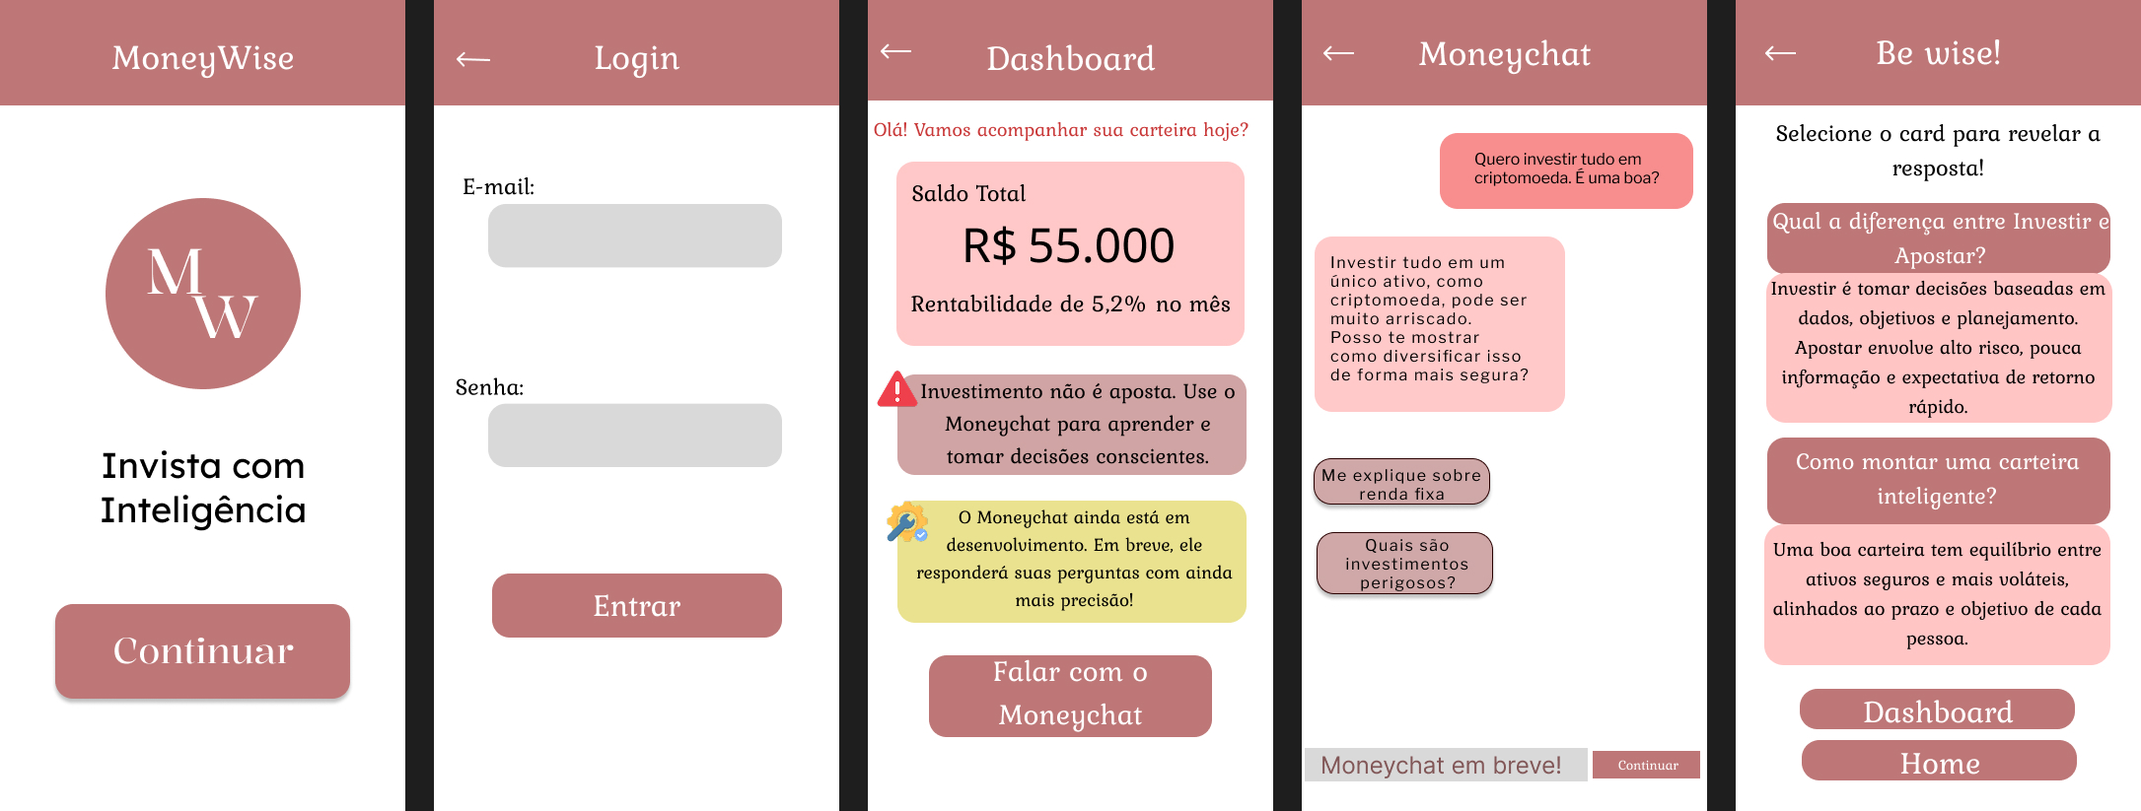
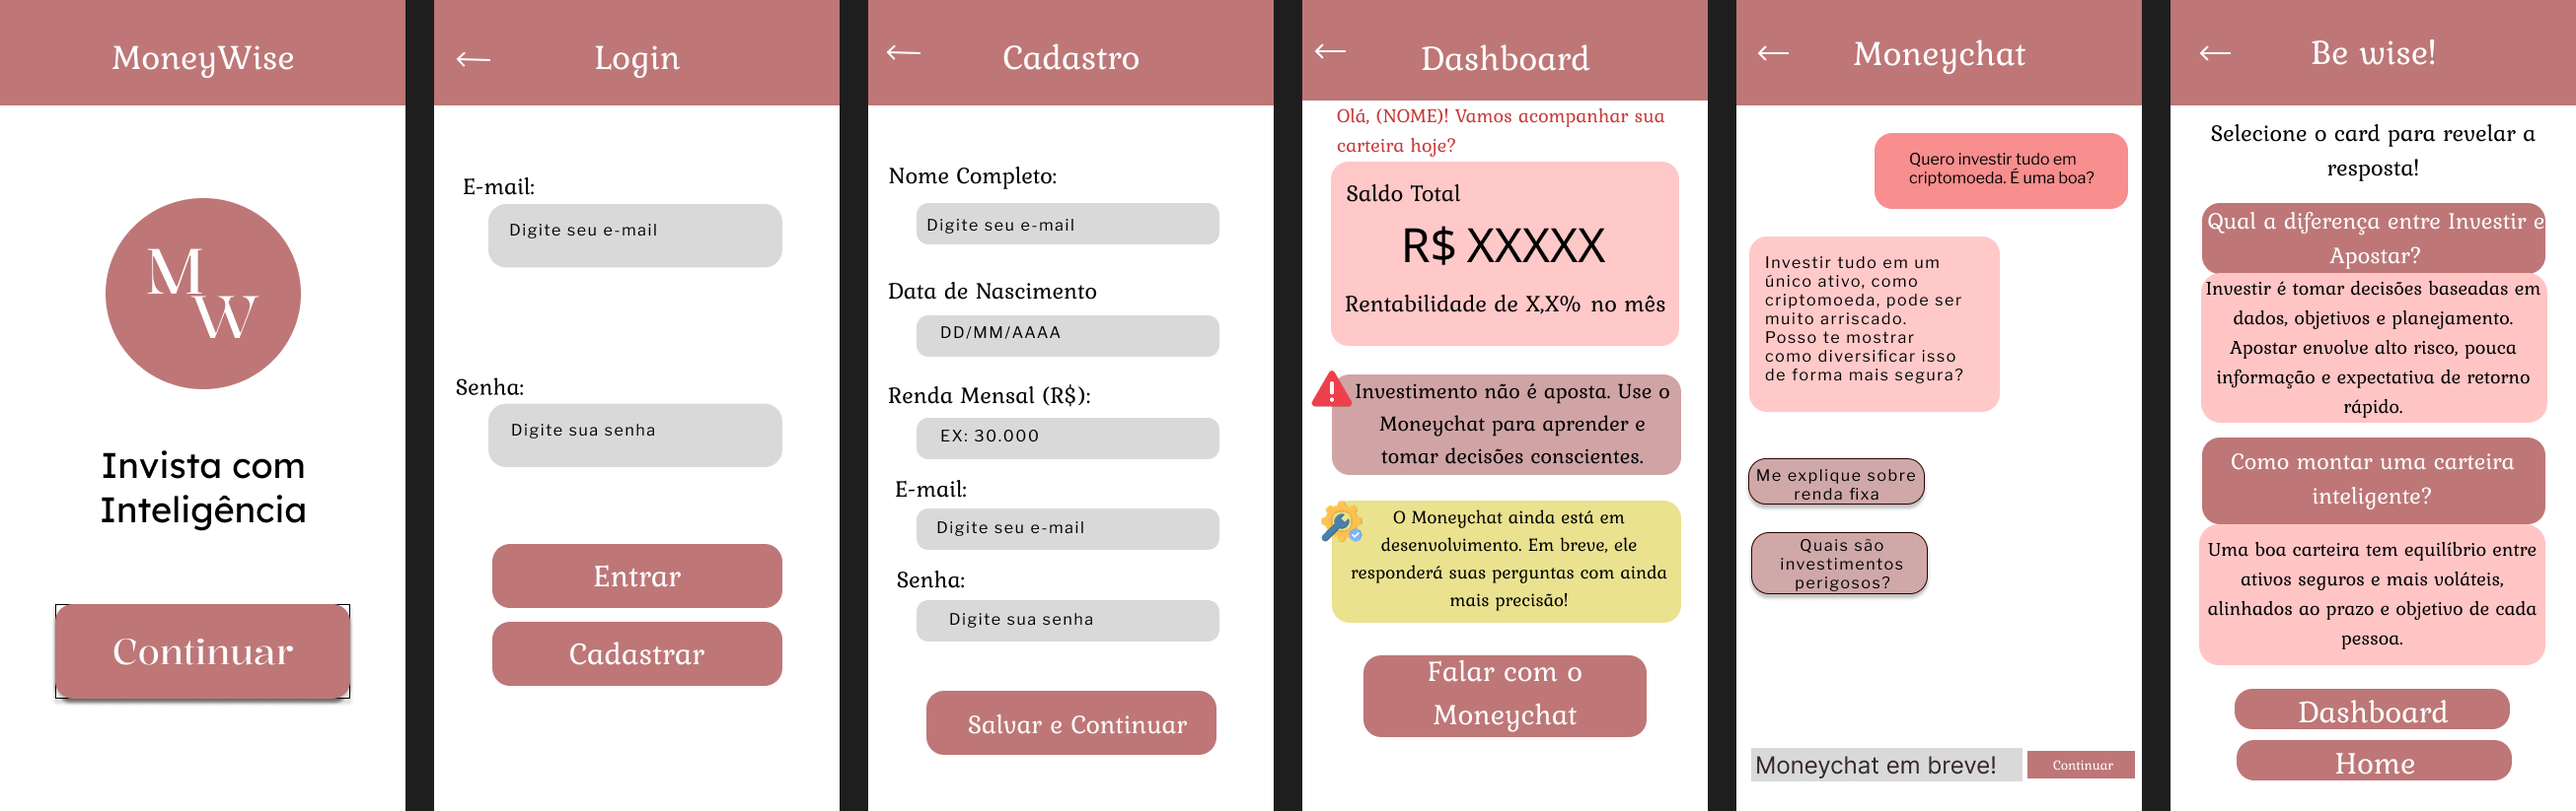
ajustes

diff --git a/screens/Login.js b/screens/Login.js
@@ -1,44 +1,71 @@
 import React, { useState } from 'react';
-import { Text, TextInput, TouchableOpacity, StyleSheet, View } from 'react-native';
+import { View, Text, TextInput, TouchableOpacity, StyleSheet, Alert } from 'react-native';
 import { SafeAreaView } from 'react-native-safe-area-context';
+import AsyncStorage from '@react-native-async-storage/async-storage';
 import Header from '../Header';
 
 export default function Login({ navigation }) {
   const [email, setEmail] = useState('');
   const [senha, setSenha] = useState('');
 
+  const salvarUsuario = async () => {
+    if (!email || !senha) return Alert.alert('Preencha todos os campos!');
+    try {
+      await AsyncStorage.setItem('usuario', JSON.stringify({ email, senha }));
+      Alert.alert('Cadastro realizado com sucesso!');
+      setEmail('');
+      setSenha('');
+    } catch (error) {
+      Alert.alert('Erro ao salvar usuário');
+    }
+  };
+
+  const autenticarUsuario = async () => {
+    try {
+      const dados = await AsyncStorage.getItem('usuario');
+      if (dados) {
+        const { email: salvo, senha: salva } = JSON.parse(dados);
+        if (email === salvo && senha === salva) {
+          navigation.navigate('Dashboard');
+        } else {
+          Alert.alert('E-mail ou senha incorretos');
+        }
+      } else {
+        Alert.alert('Usuário não encontrado. Cadastre-se primeiro.');
+      }
+    } catch (error) {
+      Alert.alert('Erro ao autenticar');
+    }
+  };
+
   return (
     <SafeAreaView style={{ flex: 1, backgroundColor: '#fff' }}>
-     <Header
-        title="Login"
-        showBack={true}
-        onBack={() => navigation.navigate('Home')}/>
+      <Header title="Login" showBack={true} onBack={() => navigation.goBack()} />
 
       <View style={styles.container}>
-        <Text style={styles.label}>E-mail</Text>
+        <Text style={styles.label}>E-mail:</Text>
         <TextInput
           style={styles.input}
           placeholder="Digite seu e-mail"
           value={email}
           onChangeText={setEmail}
-          keyboardType="email-address"
-          autoCapitalize="none"
         />
 
-        <Text style={styles.label}>Senha</Text>
+        <Text style={styles.label}>Senha:</Text>
         <TextInput
           style={styles.input}
           placeholder="Digite sua senha"
-          secureTextEntry
           value={senha}
           onChangeText={setSenha}
+          secureTextEntry
         />
 
-        <TouchableOpacity
-          style={styles.button}
-          onPress={() => navigation.navigate('Dashboard')}
-        >
-          <Text style={styles.buttonText}>Entrar</Text>
+        <TouchableOpacity style={styles.botao} onPress={autenticarUsuario}>
+          <Text style={styles.botaoTexto}>Entrar</Text>
+        </TouchableOpacity>
+
+        <TouchableOpacity style={styles.cadastrarbotao} onPress={() => navigation.navigate('Cadastro')}>
+          <Text style={styles.link}>Cadastrar</Text>
         </TouchableOpacity>
       </View>
     </SafeAreaView>
@@ -47,13 +74,12 @@ export default function Login({ navigation }) {
 
 const styles = StyleSheet.create({
   container: {
-    flex: 1,
-    padding: 50,
+    padding: 20
   },
   label: {
-    fontSize: 20,
-    marginBottom: 6,
-    color: '#333'
+    fontSize: 16,
+    marginTop: 10,
+    marginBottom: 4
   },
   input: {
     height: 45,
@@ -62,24 +88,28 @@ const styles = StyleSheet.create({
     paddingHorizontal: 12,
     marginBottom: 50
   },
-  button: {
+  botao: {
     backgroundColor: '#A66A6A',
-    paddingVertical: 15,
+    marginTop: 20,
+    padding: 12,
     borderRadius: 10,
-    alignItems: 'center'
+    alignItems: 'center',
   },
-  buttonText: {
+  botaoTexto: {
     color: '#fff',
-    fontSize: 30,
-    fontWeight: '500'
+    fontWeight: 'bold',
+    fontSize: 20
   },
-  secondaryButton: {
-    marginTop: 16,
-    alignItems: 'center'
+  cadastrarbotao: {
+    backgroundColor: '#A66A6A',
+    marginTop: 20,
+    padding: 12,
+    borderRadius: 10,
   },
-  secondaryText: {
-    color: '#A66A6A',
-    fontSize: 16,
-    fontWeight: '500'
+  link: {
+    color: '#fff',
+    fontWeight: 'bold',
+    fontSize: 20,
+    textAlign: 'center'
   }
 });

diff --git a/screens/Cadastro.js b/screens/Cadastro.js
@@ -1,0 +1,148 @@
+import React, { useState } from 'react';
+import {
+  View,
+  Text,
+  TextInput,
+  TouchableOpacity,
+  StyleSheet,
+  Alert,
+  KeyboardAvoidingView,
+  Platform,
+  ScrollView
+} from 'react-native';
+import { SafeAreaView } from 'react-native-safe-area-context';
+import AsyncStorage from '@react-native-async-storage/async-storage';
+import Header from '../Header';
+
+export default function Cadastro({ navigation }) {
+  const [nome, setNome] = useState('');
+  const [dataNascimento, setDataNascimento] = useState('');
+  const [renda, setRenda] = useState('');
+  const [email, setEmail] = useState('');
+  const [senha, setSenha] = useState('');
+
+  const salvarCadastro = async () => {
+  if (!nome || !dataNascimento || !renda || !email || !senha) {
+    Alert.alert('Preencha todos os campos!');
+    return;
+  }
+
+  try {
+    const usuarioExistente = await AsyncStorage.getItem('usuario');
+
+    if (usuarioExistente) {
+      const { email: emailSalvo } = JSON.parse(usuarioExistente);
+      if (email === emailSalvo) {
+        Alert.alert('Este e-mail já possui cadastro.');
+        return;
+      }
+    }
+
+    
+    await AsyncStorage.setItem(
+      'dadosUsuario',
+      JSON.stringify({ nome, dataNascimento, renda })
+    );
+
+   
+    await AsyncStorage.setItem(
+      'usuario',
+      JSON.stringify({ email, senha })
+    );
+
+    Alert.alert('Cadastro realizado com sucesso!');
+    navigation.navigate('Login');
+  } catch (error) {
+    Alert.alert('Erro ao salvar cadastro');
+  }
+};
+
+
+  return (
+    <SafeAreaView style={{ flex: 1, backgroundColor: '#fff' }}>
+      <Header title="Cadastro" showBack={true} onBack={() => navigation.goBack()} />
+
+      <KeyboardAvoidingView
+        behavior={Platform.OS === 'ios' ? 'padding' : 'height'}
+        style={{ flex: 1 }}
+      >
+        <ScrollView contentContainerStyle={styles.container}>
+          <Text style={styles.label}>Nome completo:</Text>
+          <TextInput
+            style={styles.input}
+            placeholder="Digite seu nome"
+            value={nome}
+            onChangeText={setNome}
+          />
+
+          <Text style={styles.label}>Data de nascimento:</Text>
+          <TextInput
+            style={styles.input}
+            placeholder="DD/MM/AAAA"
+            value={dataNascimento}
+            onChangeText={setDataNascimento}
+          />
+
+          <Text style={styles.label}>Renda mensal (R$):</Text>
+          <TextInput
+            style={styles.input}
+            placeholder="Ex: 30.000"
+            keyboardType="numeric"
+            value={renda}
+            onChangeText={setRenda}
+          />
+
+          <Text style={styles.label}>E-mail:</Text>
+          <TextInput
+            style={styles.input}
+            placeholder="Digite seu e-mail"
+            keyboardType="email-address"
+            value={email}
+            onChangeText={setEmail}
+          />
+
+          <Text style={styles.label}>Senha:</Text>
+          <TextInput
+            style={styles.input}
+            placeholder="Digite sua senha"
+            secureTextEntry
+            value={senha}
+            onChangeText={setSenha}
+          />
+
+          <TouchableOpacity style={styles.botao} onPress={salvarCadastro}>
+            <Text style={styles.botaoTexto}>Salvar e continuar</Text>
+          </TouchableOpacity>
+        </ScrollView>
+      </KeyboardAvoidingView>
+    </SafeAreaView>
+  );
+}
+
+const styles = StyleSheet.create({
+  container: {
+    padding: 20
+  },
+  label: {
+    fontSize: 16,
+    marginTop: 12,
+    marginBottom: 4
+  },
+  input: {
+    backgroundColor: '#eee',
+    padding: 12,
+    borderRadius: 8
+  },
+  botao: {
+    backgroundColor: '#A66A6A',
+    marginTop: 30,
+    padding: 14,
+    borderRadius: 10,
+    alignItems: 'center'
+  },
+  botaoTexto: {
+    color: '#fff',
+    fontWeight: 'bold',
+    fontSize: 16
+  }
+});

diff --git a/screens/Dashboard.js b/screens/Dashboard.js
@@ -1,20 +1,41 @@
-import React from 'react';
+import React, { useEffect, useState } from 'react';
 import { View, Text, StyleSheet, TouchableOpacity } from 'react-native';
 import { SafeAreaView } from 'react-native-safe-area-context';
+import AsyncStorage from '@react-native-async-storage/async-storage';
 import Header from '../Header';
 
 export default function Dashboard({ navigation }) {
+  const [nome, setNome] = useState('');
+  const [renda, setRenda] = useState('');
+
+  useEffect(() => {
+    const carregarDados = async () => {
+      try {
+        const dados = await AsyncStorage.getItem('dadosUsuario');
+        if (dados) {
+          const { nome, renda } = JSON.parse(dados);
+          setNome(nome);
+          setRenda(renda);
+        }
+      } catch (error) {
+        console.error('Erro ao carregar dados:', error);
+      }
+    };
+
+    carregarDados();
+  }, []);
+
   return (
     <SafeAreaView style={{ flex: 1, backgroundColor: '#fff' }}>
       <Header title="Dashboard" showBack={true} onBack={() => navigation.goBack()} />
 
       <View style={styles.container}>
-        <Text style={styles.greeting}>Olá! Vamos acompanhar sua carteira hoje?</Text>
+        <Text style={styles.greeting}>Olá, {nome?.split(' ')[0]}! Vamos acompanhar sua carteira hoje?</Text>
 
         <View style={styles.cardSaldo}>
-          <Text style={styles.saldoTitulo}>Saldo Total</Text>
-          <Text style={styles.saldoValor}>R$ 55.000</Text>
-          <Text style={styles.rentabilidade}>Rentabilidade de 5,2% no mês</Text>
+          <Text style={styles.saldoTitulo}>Renda mensal</Text>
+          <Text style={styles.saldoValor}>R$ {renda || '----'}</Text>
+          <Text style={styles.rentabilidade}>Rentabilidade de X,X% no mês</Text>
         </View>
 
         <View style={styles.alerta}>
@@ -37,7 +58,6 @@ export default function Dashboard({ navigation }) {
         >
           <Text style={styles.botaoTexto}>Falar com o Moneychat</Text>
         </TouchableOpacity>
-
       </View>
     </SafeAreaView>
   );
@@ -48,14 +68,12 @@ const styles = StyleSheet.create({
     flex: 1,
     paddingHorizontal: 16,
     paddingTop: 20
-    
   },
   greeting: {
     fontSize: 18,
     marginBottom: 20,
     color: '#A66A6A',
     fontWeight: 'bold'
-    
   },
   cardSaldo: {
     backgroundColor: '#FFD6D6',

diff --git a/App.js b/App.js
@@ -4,6 +4,7 @@ import { createNativeStackNavigator } from '@react-navigation/native-stack';
 
 import Home from './screens/Home';
 import Login from './screens/Login';
+import Cadastro from './screens/Cadastro';
 import Dashboard from './screens/Dashboard';
 import Moneychat from './screens/Moneychat';
 import Trilhas from './screens/Trilhas';
@@ -16,6 +17,7 @@ export default function App() {
       <Stack.Navigator screenOptions={{ headerShown: false }} initialRouteName="Home">
         <Stack.Screen name="Home" component={Home} />
         <Stack.Screen name="Login" component={Login} />
+        <Stack.Screen name="Cadastro" component={Cadastro} />
         <Stack.Screen name="Dashboard" component={Dashboard} />
         <Stack.Screen name="Moneychat" component={Moneychat} />
         <Stack.Screen name="Trilhas" component={Trilhas} />
